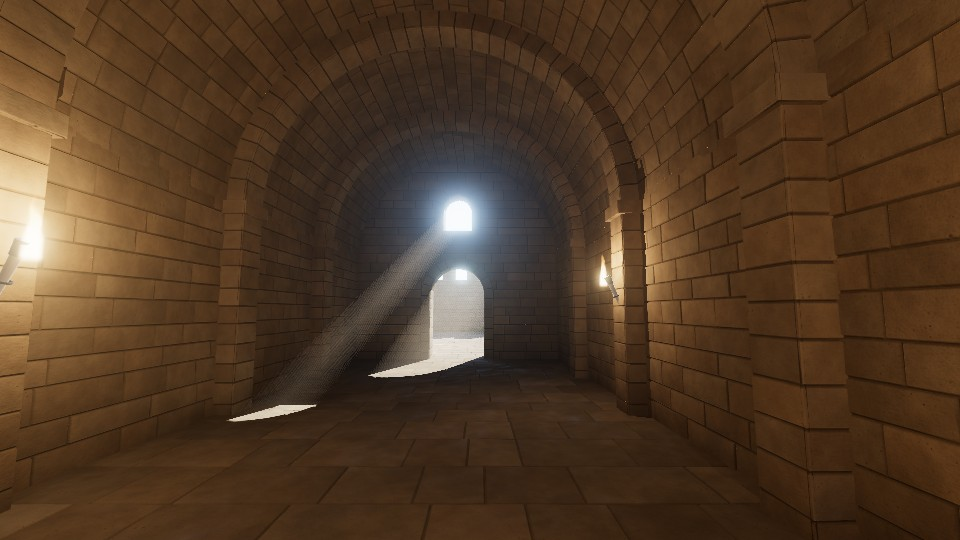
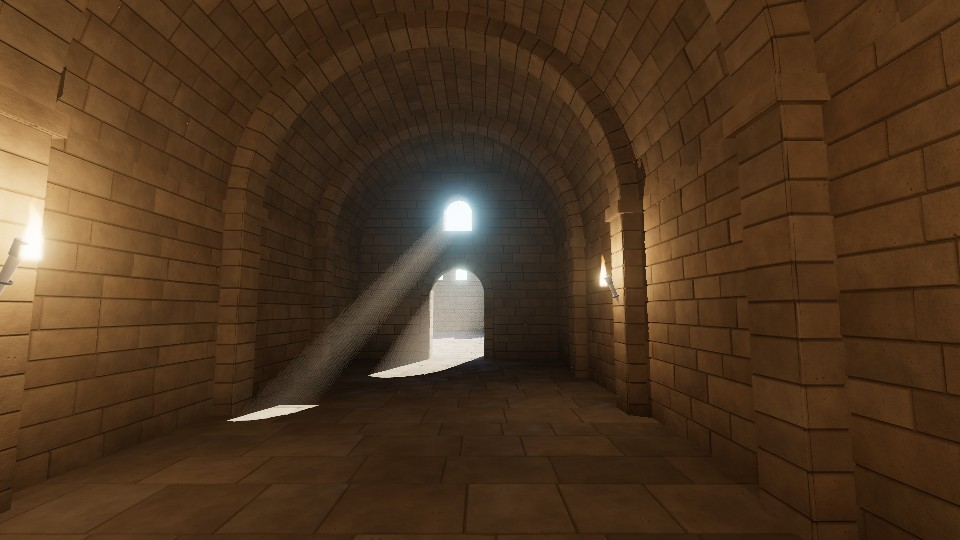
Close wall copings from below and tame glare towards the sun
Coping stones overhang the wall face but had no underside, so the sky
showed through a strip along the top of the courtyard walls. Build the
missing faces.

Looking towards the sun whited out the view: clamp the sun's disc
before bloom, soften bloom and forward scattering, and thin the outdoor
haze while keeping indoor dust for light shafts.

Claude-Session: https://claude.ai/code/session_01B8uYcq2gEB5Nx1DmHVHTup

diff --git a/src/scenes/courtyardHall.ts b/src/scenes/courtyardHall.ts
@@ -137,11 +137,11 @@ export function buildCourtyardHall(seed: string): SceneDescription {
   const south = kit.frame(AX, CZ1, CX0 - 0.1, CZ1);
   kit.wallFace('stone', south, -0.1, 3.9, ashlar);
   kit.wallMass(south, 1.2, -1, 3.9);
-  kit.box('stone', V(CX0 - 0.1, 3.9, CZ1 - 0.12), V(AX, 4.02, CZ1 + 0.6), 'zY', coping, coping);
+  kit.box('stone', V(CX0 - 0.1, 3.9, CZ1 - 0.12), V(AX, 4.02, CZ1 + 0.6), 'zYy', coping, coping);
   for (let x = 0.5; x < AX - 1; x += 1.9) {
     kit.box('stone', V(x, 4.02, CZ1 - 0.04), V(x + 1.0, 4.9, CZ1 + 0.5), 'xXzY', ashlar, coping);
   }
-  kit.box('stone', V(CX0 - 0.6, 6.0, -0.1), V(CX0 + 0.12, 6.12, CZ1 + 0.1), 'XY', coping, coping);
+  kit.box('stone', V(CX0 - 0.6, 6.0, -0.1), V(CX0 + 0.12, 6.12, CZ1 + 0.1), 'XYy', coping, coping);
   for (let z = 0.6; z < CZ1 - 1; z += 1.9) {
     kit.box('stone', V(CX0 - 0.5, 6.12, z), V(CX0 + 0.04, 7.0, z + 1.0), 'XzZY', ashlar, coping);
   }
@@ -154,7 +154,7 @@ export function buildCourtyardHall(seed: string): SceneDescription {
   kit.wallMass(arcade, AT, -1, 4.7, arches);
   kit.mass(V(AXB + 0.035, -1, -0.1), V(AXB + 1.4, 5.7, CZ1 + 0.1));
   kit.mass(V(AX + AT, -1, CZ1 + 0.035), V(AXB + 1.4, 4.7, CZ1 + 1.2));
-  kit.box('stone', V(AX - 0.1, 4.7, -0.1), V(AX + AT, 4.82, CZ1 + 0.1), 'xY', coping, coping);
+  kit.box('stone', V(AX - 0.1, 4.7, -0.1), V(AX + AT, 4.82, CZ1 + 0.1), 'xYy', coping, coping);
   const arcadeIn = kit.frame(AX + AT, CZ1 + 0.1, AX + AT, -0.1);
   kit.wallFace('stone', arcadeIn, -0.1, 4.2, ashlar, { openings: arches.map((a) => ({ ...a, c: arcade.length - a.c })) });
   kit.wallFace('stone', kit.frame(AXB, -0.1, AXB, CZ1 + 0.1), -0.1, 4.2, ashlar);

diff --git a/src/render/post.ts b/src/render/post.ts
@@ -249,7 +249,8 @@ float phaseHG(float c, float g) {
 }
 
 void main() {
-  vec3 col = texture2D(tColor, vUv).rgb;
+  // The sun's disc is thousands of times brighter than anything else; left alone, bloom spreads it over the whole view.
+  vec3 col = min(texture2D(tColor, vUv).rgb, vec3(6.0));
   if (uEnabled < 0.5) { gl_FragColor = vec4(col, 1.0); return; }
   float depth = texture2D(tDepth, vUv).x;
   vec4 v = uInvProj * vec4(vUv * 2.0 - 1.0, depth * 2.0 - 1.0, 1.0);
@@ -257,11 +258,11 @@ void main() {
   vec3 rd = wp - uCamPos;
   float dist = length(rd);
   rd /= dist;
-  float tMax = min(dist, 80.0);
+  float tMax = min(dist, 45.0);
   float dt = tMax / float(STEPS);
   float t = dt * ign(gl_FragCoord.xy + uFrame * 5.588);
   float c = dot(rd, uSunDir);
-  float phase = mix(phaseHG(c, 0.72), 0.0796, 0.35);
+  float phase = mix(phaseHG(c, 0.55), 0.0796, 0.35);
   vec3 scatter = vec3(0.0);
   float trans = 1.0;
   for (int i = 0; i < STEPS; i++) {
@@ -269,7 +270,7 @@ void main() {
     float sky = seen(tSkyDepth, uSkyVP, p, 0.0006);
     float sun = seen(tSunDepth, uSunVP, p, 0.0006);
     // Still air indoors holds more dust than the open courtyard.
-    float dens = uDensity * mix(uIndoorDensity, 1.0, sky) * exp(-max(p.y, 0.0) * 0.03);
+    float dens = uDensity * mix(uIndoorDensity, 1.0, sky) * exp(-max(p.y, 0.0) * 0.06);
     vec3 light = uSunColor * sun * phase + uSkyColor * sky * 0.0796;
     scatter += trans * light * dens * dt;
     trans *= exp(-dens * dt);

diff --git a/src/app/main.ts b/src/app/main.ts
@@ -180,12 +180,12 @@ async function start(): Promise<void> {
   const atmosphere = new AtmospherePass(scene, camera, size.x, size.y);
   atmosphere.uniforms.uSunColor.value.set(SUN_COLOR.r, SUN_COLOR.g, SUN_COLOR.b).multiplyScalar(SUN_INTENSITY * 1.7);
   atmosphere.uniforms.uSkyColor.value.set(0.42, 0.52, 0.7).multiplyScalar(1.6);
-  atmosphere.uniforms.uDensity.value = num('fog', 0.006);
-  atmosphere.uniforms.uIndoorDensity.value = num('dust', 7);
+  atmosphere.uniforms.uDensity.value = num('fog', 0.003);
+  atmosphere.uniforms.uIndoorDensity.value = num('dust', 14);
   atmosphere.updateStatic(renderer, [...statics, ...occluders], sunDir, desc.bounds.min, desc.bounds.max);
   if (params.get('air') === '0') atmosphere.uniforms.uEnabled.value = 0;
   atmosphere.setLights(torches.map((t) => ({ position: t.flamePosition, color: new Vector3(1.0, 0.5, 0.2).multiplyScalar(TORCH_INTENSITY * 0.16) })));
-  const bloom = new UnrealBloomPass(new Vector2(size.x, size.y), 0.22, 0.7, 1.6);
+  const bloom = new UnrealBloomPass(new Vector2(size.x, size.y), 0.14, 0.5, 1.8);
   composer.addPass(atmosphere);
   if (num('bloom', 1)) composer.addPass(bloom);
   composer.addPass(new OutputPass());
